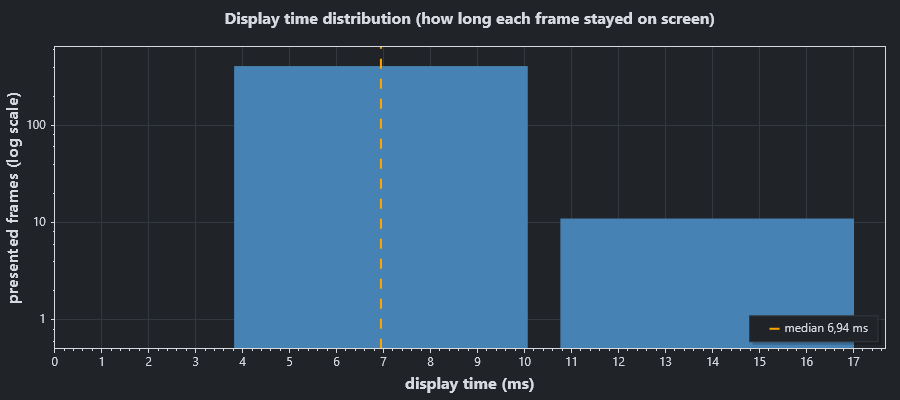
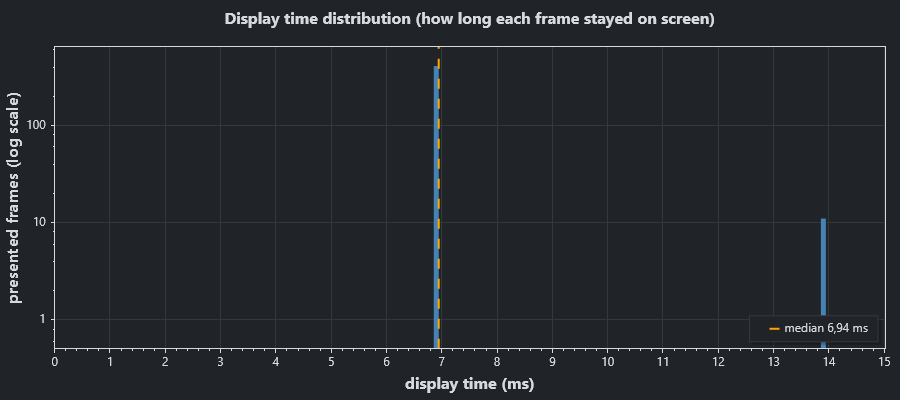
Analysis: one report for every capture source (fixed bins, 1 ms error threshold)
The report only pairs decoded markers with display times, so it no longer
depends on what captured them.

- Histograms use fixed 0.1 ms bins (Histogram.DefaultBinWidthTicks) instead
  of one capture period: a perfect run is a narrow spike at 0 ms error and at
  one refresh, and delta time jitter shows as its real spread (the naive
  +-5 ms clip spans -10..+10 ms instead of one bin).
- One error threshold for every source: 1 ms by default,
  analyze --error-threshold-ms (TimelineOptions.ErrorThresholdTicks). The
  animation error is exact on a capture card, so half a refresh hid real
  errors (134 instead of 461 error frames in the naive clip).
- The cause split judges a display time off its target from half a refresh
  on, for every source; a frame without a pacing/prediction split falls back
  to that display rule instead of counting as bad pacing.
- A camera's precision goes into a warning: when the camera period exceeds
  the threshold, smaller errors are measurement noise.
- GUI legend and tooltip, CLI text, --target-fps help, docs and CLAUDE.md
  follow; the doc images are regenerated.

diff --git a/measure/libs/MB.FramePacing.Analysis/source/PacingAnalyzer.cs b/measure/libs/MB.FramePacing.Analysis/source/PacingAnalyzer.cs
@@ -108,7 +108,7 @@ namespace MB.FramePacing.Analysis
         };
       }
 
-      var (uneven, even) = schedule ? SplitBySchedule(frames, errorThresholdTicks) : SplitByDisplay(frames, half, errorThresholdTicks);
+      var (uneven, even) = Split(frames, half, errorThresholdTicks);
       var targets = frames.Where(f => f.DisplayDeltaTicks.HasValue).Select(f => (double)f.TargetTicks!.Value).Order().ToArray();
       return new RunPacing(
         refreshTicks / (double)TimeSpan.TicksPerMillisecond,
@@ -151,41 +151,33 @@ namespace MB.FramePacing.Analysis
     private static long WholeRefreshes(double ticks, long refreshTicks) =>
       Math.Max(1, (long)Math.Ceiling((ticks / refreshTicks) - TargetRoundingSlack)) * refreshTicks;
 
-    /// <summary>With a schedule the animation error of every frame splits exactly: a frame counts for the larger of its two parts.</summary>
-    private static (long Uneven, long Even) SplitBySchedule(List<PresentedFrame> frames, long errorThresholdTicks)
-    {
-      long pacing = 0;
-      long prediction = 0;
-      foreach (var frame in frames)
-      {
-        if (frame.AnimationErrorTicks is not { } error || Math.Abs(error) <= errorThresholdTicks)
-          continue;
-        if (frame.PacingErrorTicks is { } p && frame.PredictionErrorTicks is { } q && Math.Abs(q) > Math.Abs(p))
-          ++prediction;
-        else
-          ++pacing;
-      }
-      return (pacing, prediction);
-    }
-
     /// <summary>
-    /// Without a schedule: frames with an error where this or the previous frame was shown off its target (or after skipped frames) are bad
-    /// pacing, the rest delta time jitter. A capture card sees whole refreshes; a camera times a frame to about one camera period, so it tells
-    /// smaller deviations (and tears, presented mid-refresh with vsync off) from an even display.
+    /// Which cause each frame with an error counts for: bad pacing (uneven) or delta time jitter (even).
+    /// <list type="bullet">
+    /// <item>With the pacer's schedule the animation error splits exactly: the frame counts for the larger of its pacing and prediction error.</item>
+    /// <item>
+    /// Otherwise (no schedule, or a frame without a split) it is bad pacing when this or the previous frame was shown off its target (or
+    /// after skipped frames, or torn), else delta time jitter. A display changes frames on refreshes, so a display time counts as off its
+    /// target from half a refresh on, whatever captured it.
+    /// </item>
+    /// </list>
     /// </summary>
-    private static (long Uneven, long Even) SplitByDisplay(List<PresentedFrame> frames, long half, long errorThresholdTicks)
+    private static (long Uneven, long Even) Split(List<PresentedFrame> frames, long half, long errorThresholdTicks)
     {
-      long slack = Math.Min(half, 2 * errorThresholdTicks);
-      bool Uneven(PresentedFrame f) =>
-        f.Flags.HasFlag(PresentedFrameFlags.Torn) || (f.DisplayDeltaTicks is { } display && Math.Abs(display - f.TargetTicks!.Value) >= slack);
+      bool OffTarget(PresentedFrame f) =>
+        f.Flags.HasFlag(PresentedFrameFlags.Torn) || (f.DisplayDeltaTicks is { } display && Math.Abs(display - f.TargetTicks!.Value) >= half);
       long uneven = 0;
       long even = 0;
       for (int i = 0; i < frames.Count; ++i)
       {
-        if (frames[i].AnimationErrorTicks is not { } error || Math.Abs(error) <= errorThresholdTicks)
+        var frame = frames[i];
+        if (frame.AnimationErrorTicks is not { } error || Math.Abs(error) <= errorThresholdTicks)
           continue;
-        bool previousUneven = i > 0 && frames[i - 1].Segment == frames[i].Segment && Uneven(frames[i - 1]);
-        if (Uneven(frames[i]) || previousUneven || frames[i].SkippedBefore > 0)
+        bool pacing =
+          frame.PacingErrorTicks is { } p && frame.PredictionErrorTicks is { } q
+            ? Math.Abs(p) >= Math.Abs(q)
+            : OffTarget(frame) || frame.SkippedBefore > 0 || (i > 0 && frames[i - 1].Segment == frame.Segment && OffTarget(frames[i - 1]));
+        if (pacing)
           ++uneven;
         else
           ++even;

diff --git a/measure/libs/MB.FramePacing.Analysis/source/TimelineAnalyzer.cs b/measure/libs/MB.FramePacing.Analysis/source/TimelineAnalyzer.cs
@@ -24,12 +24,22 @@ namespace MB.FramePacing.Analysis
     /// <summary>How far the refresh rate may differ from the expected or calibrated one before the analysis warns (relative).</summary>
     public const double RefreshTolerance = 0.01;
 
+    /// <summary>The default |animation error| above which a frame counts as off (<see cref="TimelineOptions.ErrorThresholdTicks"/>): 1 ms.</summary>
+    public const long DefaultErrorThresholdTicks = TimeSpan.TicksPerMillisecond;
+
     public static TimelineResult Analyze(IReadOnlyList<CaptureRow> rows, TimelineOptions? options = null)
     {
       options ??= new TimelineOptions();
       var warnings = new List<string>();
       long period = EstimateCapturePeriod(rows);
-      long threshold = ErrorThreshold(period, options.Scanout);
+      long threshold = options.ErrorThresholdTicks;
+      // The report is the same for every source; a camera's coarser timing shows as noise in the errors, and the warning says how much
+      if (options.Scanout == ScanoutModel.Camera && period > threshold)
+        warnings.Add(
+          $"The camera times each frame to about one camera period ({period / (double)TimeSpan.TicksPerMillisecond:0.##} ms), more than the "
+            + $"{threshold / (double)TimeSpan.TicksPerMillisecond:0.###} ms error threshold: smaller animation errors are measurement noise. "
+            + $"--error-threshold-ms {period / (double)TimeSpan.TicksPerMillisecond:0.##} counts only the errors the camera resolves."
+        );
 
       var runRows = SplitIntoRuns(rows, warnings);
       var runs = new List<RunAnalysis>();
@@ -43,14 +53,6 @@ namespace MB.FramePacing.Analysis
         warnings.Add(options.RunId.HasValue ? $"Run {options.RunId} was not found in the capture" : "No frame markers were found in the capture");
       return new TimelineResult(period, threshold, runs, warnings);
     }
-
-    /// <summary>
-    /// The |animation error| above which a frame counts as off. A capture card captures at the display's refresh rate and sees one whole
-    /// refresh per capture, so display times and errors are whole refreshes: anything from half a capture period on is a real error (one
-    /// missed refresh counts). An EXPERIMENTAL camera films asynchronously: its times are only exact to one camera period.
-    /// </summary>
-    public static long ErrorThreshold(long capturePeriodTicks, ScanoutModel scanout) =>
-      scanout == ScanoutModel.Camera ? capturePeriodTicks : capturePeriodTicks / 2;
 
     /// <summary>Median interval between consecutive recorded captures.</summary>
     public static long EstimateCapturePeriod(IReadOnlyList<CaptureRow> rows)
@@ -348,7 +350,7 @@ namespace MB.FramePacing.Analysis
         frames.Count > 0 ? frames[^1].Segment + 1 : 0
       );
       if (period <= 0)
-        warnings.Add("The capture period could not be determined; animation error thresholds are unavailable");
+        warnings.Add("The capture period could not be determined");
       if (SlowCaptureWarning(frames, period) is { } slowCapture)
         warnings.Add(slowCapture);
       return new RunAnalysis(

diff --git a/measure/app/FramePacing/source/Commands/AnalyzeCommand.cs b/measure/app/FramePacing/source/Commands/AnalyzeCommand.cs
@@ -30,6 +30,19 @@ namespace MB.FramePacing.App.Commands
       var outputOption = new Option<string?>("--output", "-o") { Description = "Report directory (default: <capture>/analysis)." };
       var targetOption = CommonOptions.TargetFps("overrides the one stored in capture.json");
       var displayOption = CommonOptions.DisplayHz("overrides the one stored in capture.json");
+      var thresholdOption = new Option<double?>("--error-threshold-ms")
+      {
+        Description =
+          $"The |animation error| above which a frame counts as off, in ms (default {TimelineAnalyzer.DefaultErrorThresholdTicks / (double)TimeSpan.TicksPerMillisecond:0.###}).",
+        Validators =
+        {
+          result =>
+          {
+            if (result.GetValueOrDefault<double?>() is <= 0)
+              result.AddError("--error-threshold-ms must be greater than 0.");
+          },
+        },
+      };
 
       var command = new Command("analyze", "Decode the markers of a capture and report animation error.")
       {
@@ -39,6 +52,7 @@ namespace MB.FramePacing.App.Commands
         outputOption,
         targetOption,
         displayOption,
+        thresholdOption,
       };
       command.SetAction(parseResult =>
       {
@@ -50,6 +64,9 @@ namespace MB.FramePacing.App.Commands
             RunId = parseResult.GetValue(runOption),
             TargetFps = parseResult.GetValue(targetOption),
             ExpectedRefreshHz = parseResult.GetValue(displayOption),
+            ErrorThresholdTicks = parseResult.GetValue(thresholdOption) is { } ms
+              ? (long)Math.Round(ms * TimeSpan.TicksPerMillisecond)
+              : TimelineAnalyzer.DefaultErrorThresholdTicks,
           },
           OutputDirectory = parseResult.GetValue(outputOption) is { } output ? Path.GetFullPath(output) : null,
           ToolVersion = Program.VersionString,
@@ -126,7 +143,7 @@ namespace MB.FramePacing.App.Commands
         AddRow(table, "On screen", s.OnScreenMs);
         AnsiConsole.Write(table);
         AnsiConsole.MarkupLineInterpolated(
-          $"{s.FramesWithAnimationError} frame(s) with |animation error| above {report.ErrorThresholdMs:0.###} ms ({ThresholdReason(report)})."
+          $"{s.FramesWithAnimationError} frame(s) with |animation error| above {report.ErrorThresholdMs:0.###} ms (the error threshold, --error-threshold-ms)."
         );
         if (run.Pacing is { } pacing)
         {
@@ -143,11 +160,6 @@ namespace MB.FramePacing.App.Commands
       }
       AnsiConsole.MarkupLineInterpolated($"[grey]Reports written to {report.OutputDirectory}[/]");
     }
-
-    private static string ThresholdReason(AnalysisReport report) =>
-      report.Session?.Camera != null
-        ? "one camera period: a camera films asynchronously"
-        : "half a capture period: a capture card sees whole refreshes";
 
     /// <summary>The refresh rate the run was measured with, where it comes from, and how it compares with the expected rate.</summary>
     public static string RefreshText(RunPacing pacing)

diff --git a/measure/app/FramePacing.Gui/source/Views/AnalysisView.axaml.cs b/measure/app/FramePacing.Gui/source/Views/AnalysisView.axaml.cs
@@ -78,10 +78,9 @@ namespace MB.FramePacing.Gui.Views
 
       DrawTimeline(run, frames, withMetrics, Seconds);
 
-      long periodTicks = run != null ? (long)Math.Round(run.CapturePeriodMs * TimeSpan.TicksPerMillisecond) : 0;
-      var histograms = run != null ? RunHistograms.Create(run.Run, periodTicks) : null;
+      var histograms = run != null ? RunHistograms.Create(run.Run) : null;
 
-      // How often each animation error occurs; bins are one capture period wide, so each bar is one measurable value
+      // How often each animation error occurs, in the fixed 0.1 ms bins every capture source gets
       Reset(ErrorHistogramPlot, "Animation error distribution", "presented frames (log scale)", "animation error (ms)");
       if (histograms != null && histograms.AnimationErrorMs.Total > 0)
       {
@@ -131,7 +130,7 @@ namespace MB.FramePacing.Gui.Views
         line.LegendText = $"median {median:0.##} ms";
         DisplayTimeHistogramPlot.Plot.ShowLegend();
       }
-      Finish(DisplayTimeHistogramPlot, plot => plot.Axes.SetLimitsX(0, plot.Axes.GetLimits().Right));
+      Finish(DisplayTimeHistogramPlot, plot => plot.Axes.SetLimitsX(0, plot.Axes.GetLimits().Right * 1.05));
 
       // Cumulative drift
       Reset(DriftPlot, "Cumulative drift (animation time - display time)", "drift (ms)");
@@ -310,15 +309,12 @@ namespace MB.FramePacing.Gui.Views
       plot.Plot.Axes.Margins(bottom: 0);
     }
 
-    /// <summary>
-    /// The error threshold: errors inside it are not counted. A capture card sees whole refreshes, so it is half a refresh (one missed refresh
-    /// is outside); an EXPERIMENTAL camera films asynchronously, so it is one camera period (its measurement resolution).
-    /// </summary>
+    /// <summary>The error threshold: errors inside it are not counted as frames with animation error.</summary>
     private static void AddThresholdLines(AvaPlot plot, RunViewModel run, bool vertical, bool symmetric = true)
     {
       var color = ScottPlot.Colors.Orange;
       double threshold = run.ErrorThresholdMs;
-      string legend = run.IsCamera ? "1 camera period (the measurement resolution)" : "½ refresh (errors are whole refreshes)";
+      string legend = $"{threshold.ToString("0.###", CultureInfo.CurrentCulture)} ms error threshold";
       if (vertical)
       {
         plot.Plot.Add.VerticalLine(threshold, color: color, pattern: ScottPlot.LinePattern.Dashed).LegendText = "±" + legend;

diff --git a/measure/libs/MB.FramePacing.Analysis/source/Histogram.cs b/measure/libs/MB.FramePacing.Analysis/source/Histogram.cs
@@ -1,9 +1,9 @@
 //****************************************************************************************************************************************************
 //* File Description
 //* ----------------
-//* Histograms of per-frame values. Captured times are quantised to the capture period, so the bins are one capture period wide and
-//* centred on its multiples: every possible measured value falls in the middle of a bin. The bins cover min..max without gaps (empty
-//* bins included), so they can be drawn directly.
+//* Histograms of per-frame values, in bins of a fixed width centred on its multiples, whatever captured the frames: the report shows the
+//* measured values, and a coarse measurement shows as their spread. The bins cover min..max without gaps (empty bins included), so they
+//* can be drawn directly.
 //*
 //* (c) 2026 Mana Battery
 //* SPDX-License-Identifier: LicenseRef-PolyForm-Perimeter-1.0.1
@@ -19,6 +19,9 @@ namespace MB.FramePacing.Analysis
   {
     /// <summary>Upper bound for the bin count; wider bins (a multiple of the requested width) are used when the range needs more.</summary>
     public const int DefaultMaxBins = 400;
+
+    /// <summary>The width of the reported bins: 0.1 ms, fine enough to show a spread well below a refresh.</summary>
+    public const long DefaultBinWidthTicks = TimeSpan.TicksPerMillisecond / 10;
 
     public static readonly Histogram Empty = new Histogram(0, 0, Array.Empty<HistogramBin>());
 

diff --git a/measure/libs/MB.FramePacing.Analysis/UnitTest/source/EndToEndTests.cs b/measure/libs/MB.FramePacing.Analysis/UnitTest/source/EndToEndTests.cs
@@ -138,7 +138,13 @@ namespace MB.FramePacing.Analysis.UnitTest
         var histograms = summary.RootElement.GetProperty("runs")[0].GetProperty("histograms");
         long withError = run.Frames.LongCount(f => f.AnimationErrorTicks.HasValue);
         Assert.That(histograms.GetProperty("animationErrorMs").GetProperty("total").GetInt64(), Is.EqualTo(withError));
-        Assert.That(histograms.GetProperty("displayDeltaMs").GetProperty("binWidthMs").GetDouble(), Is.EqualTo(report.CapturePeriodMs).Within(1e-9));
+        long binWidthTicks = (long)
+          Math.Round(histograms.GetProperty("displayDeltaMs").GetProperty("binWidthMs").GetDouble() * TimeSpan.TicksPerMillisecond);
+        Assert.That(
+          binWidthTicks % Histogram.DefaultBinWidthTicks,
+          Is.Zero,
+          "the fixed bin width (or a multiple for a wide range), whatever the capture period"
+        );
       }
       Assert.That(
         File.ReadLines(Path.Combine(report.OutputDirectory, CaptureAnalyzer.CapturesFileName)).Count(),

diff --git a/measure/libs/MB.FramePacing.Analysis/source/RunHistograms.cs b/measure/libs/MB.FramePacing.Analysis/source/RunHistograms.cs
@@ -14,12 +14,12 @@ namespace MB.FramePacing.Analysis
   /// <summary>The distributions reported per run.</summary>
   public sealed record RunHistograms(Histogram AnimationErrorMs, Histogram DisplayDeltaMs)
   {
-    public static RunHistograms Create(RunAnalysis run, long capturePeriodTicks)
+    public static RunHistograms Create(RunAnalysis run)
     {
       var frames = run.Frames.Where(f => f.AnimationErrorTicks.HasValue).ToArray();
       return new RunHistograms(
-        Histogram.FromTicks(frames.Select(f => f.AnimationErrorTicks!.Value), capturePeriodTicks),
-        Histogram.FromTicks(frames.Select(f => f.DisplayDeltaTicks!.Value), capturePeriodTicks)
+        Histogram.FromTicks(frames.Select(f => f.AnimationErrorTicks!.Value), Histogram.DefaultBinWidthTicks),
+        Histogram.FromTicks(frames.Select(f => f.DisplayDeltaTicks!.Value), Histogram.DefaultBinWidthTicks)
       );
     }
   }

diff --git a/measure/libs/MB.FramePacing.Analysis/source/TimelineOptions.cs b/measure/libs/MB.FramePacing.Analysis/source/TimelineOptions.cs
@@ -21,7 +21,13 @@ namespace MB.FramePacing.Analysis
     /// <summary>Only analyse this run id (null = all runs).</summary>
     public uint? RunId { get; init; }
 
-    /// <summary>The frame rate the application aims for (null = each run's median display time, in whole refreshes).</summary>
+    /// <summary>
+    /// The |animation error| above which a frame counts as off, the same for every capture source. The animation error is measured exactly
+    /// (the marker's animation time against the display time), so the default is small: 1 ms.
+    /// </summary>
+    public long ErrorThresholdTicks { get; init; } = TimelineAnalyzer.DefaultErrorThresholdTicks;
+
+    /// <summary>The frame rate the application aims for (null = the markers' pacing, else one refresh per frame).</summary>
     public double? TargetFps { get; init; }
 
     /// <summary>

diff --git a/measure/libs/MB.FramePacing.Analysis/source/AnalysisReport.cs b/measure/libs/MB.FramePacing.Analysis/source/AnalysisReport.cs
@@ -24,7 +24,7 @@ namespace MB.FramePacing.Analysis
   {
     public double CapturePeriodMs => Timeline.CapturePeriodTicks / (double)TimeSpan.TicksPerMillisecond;
 
-    /// <summary>The |animation error| above which a frame counts as off: half a capture period for a capture card, one camera period for a camera.</summary>
+    /// <summary>The |animation error| above which a frame counts as off (<see cref="TimelineOptions.ErrorThresholdTicks"/>).</summary>
     public double ErrorThresholdMs => Timeline.ErrorThresholdTicks / (double)TimeSpan.TicksPerMillisecond;
   }
 }

diff --git a/measure/libs/MB.FramePacing.Analysis/source/TimelineResult.cs b/measure/libs/MB.FramePacing.Analysis/source/TimelineResult.cs
@@ -11,7 +11,7 @@ using System.Collections.Generic;
 
 namespace MB.FramePacing.Analysis
 {
-  /// <param name="ErrorThresholdTicks">The |animation error| above which a frame counts as off (<see cref="TimelineAnalyzer.ErrorThreshold"/>).</param>
+  /// <param name="ErrorThresholdTicks">The |animation error| above which a frame counts as off (<see cref="TimelineOptions.ErrorThresholdTicks"/>).</param>
   public sealed record TimelineResult(
     long CapturePeriodTicks,
     long ErrorThresholdTicks,

diff --git a/measure/libs/MB.FramePacing.Analysis/UnitTest/source/HistogramTests.cs b/measure/libs/MB.FramePacing.Analysis/UnitTest/source/HistogramTests.cs
@@ -49,7 +49,7 @@ namespace MB.FramePacing.Analysis.UnitTest
       var histogram = Histogram.FromTicks(new[] { 0, 1000 * Ms }, 2 * Ms, maxBins: 100);
 
       Assert.That(histogram.Bins, Has.Count.LessThanOrEqualTo(100));
-      Assert.That(histogram.BinWidthMs % 2, Is.Zero, "still a multiple of the capture period");
+      Assert.That(histogram.BinWidthMs % 2, Is.Zero, "still a multiple of the requested width");
       Assert.That(histogram.Bins.Sum(b => b.Count), Is.EqualTo(2));
     }
 

diff --git a/measure/app/FramePacing/source/Commands/CommonOptions.cs b/measure/app/FramePacing/source/Commands/CommonOptions.cs
@@ -52,7 +52,7 @@ namespace MB.FramePacing.App.Commands
       {
         Description =
           $"The frame rate the application aims for, e.g. 30 on a 60 Hz display; frames shown a refresh later are late ({where}). "
-          + "Default: each run's median display time.",
+          + "Default: the pacing in the markers, else one refresh per frame (the display's native rate).",
         Validators =
         {
           result =>
